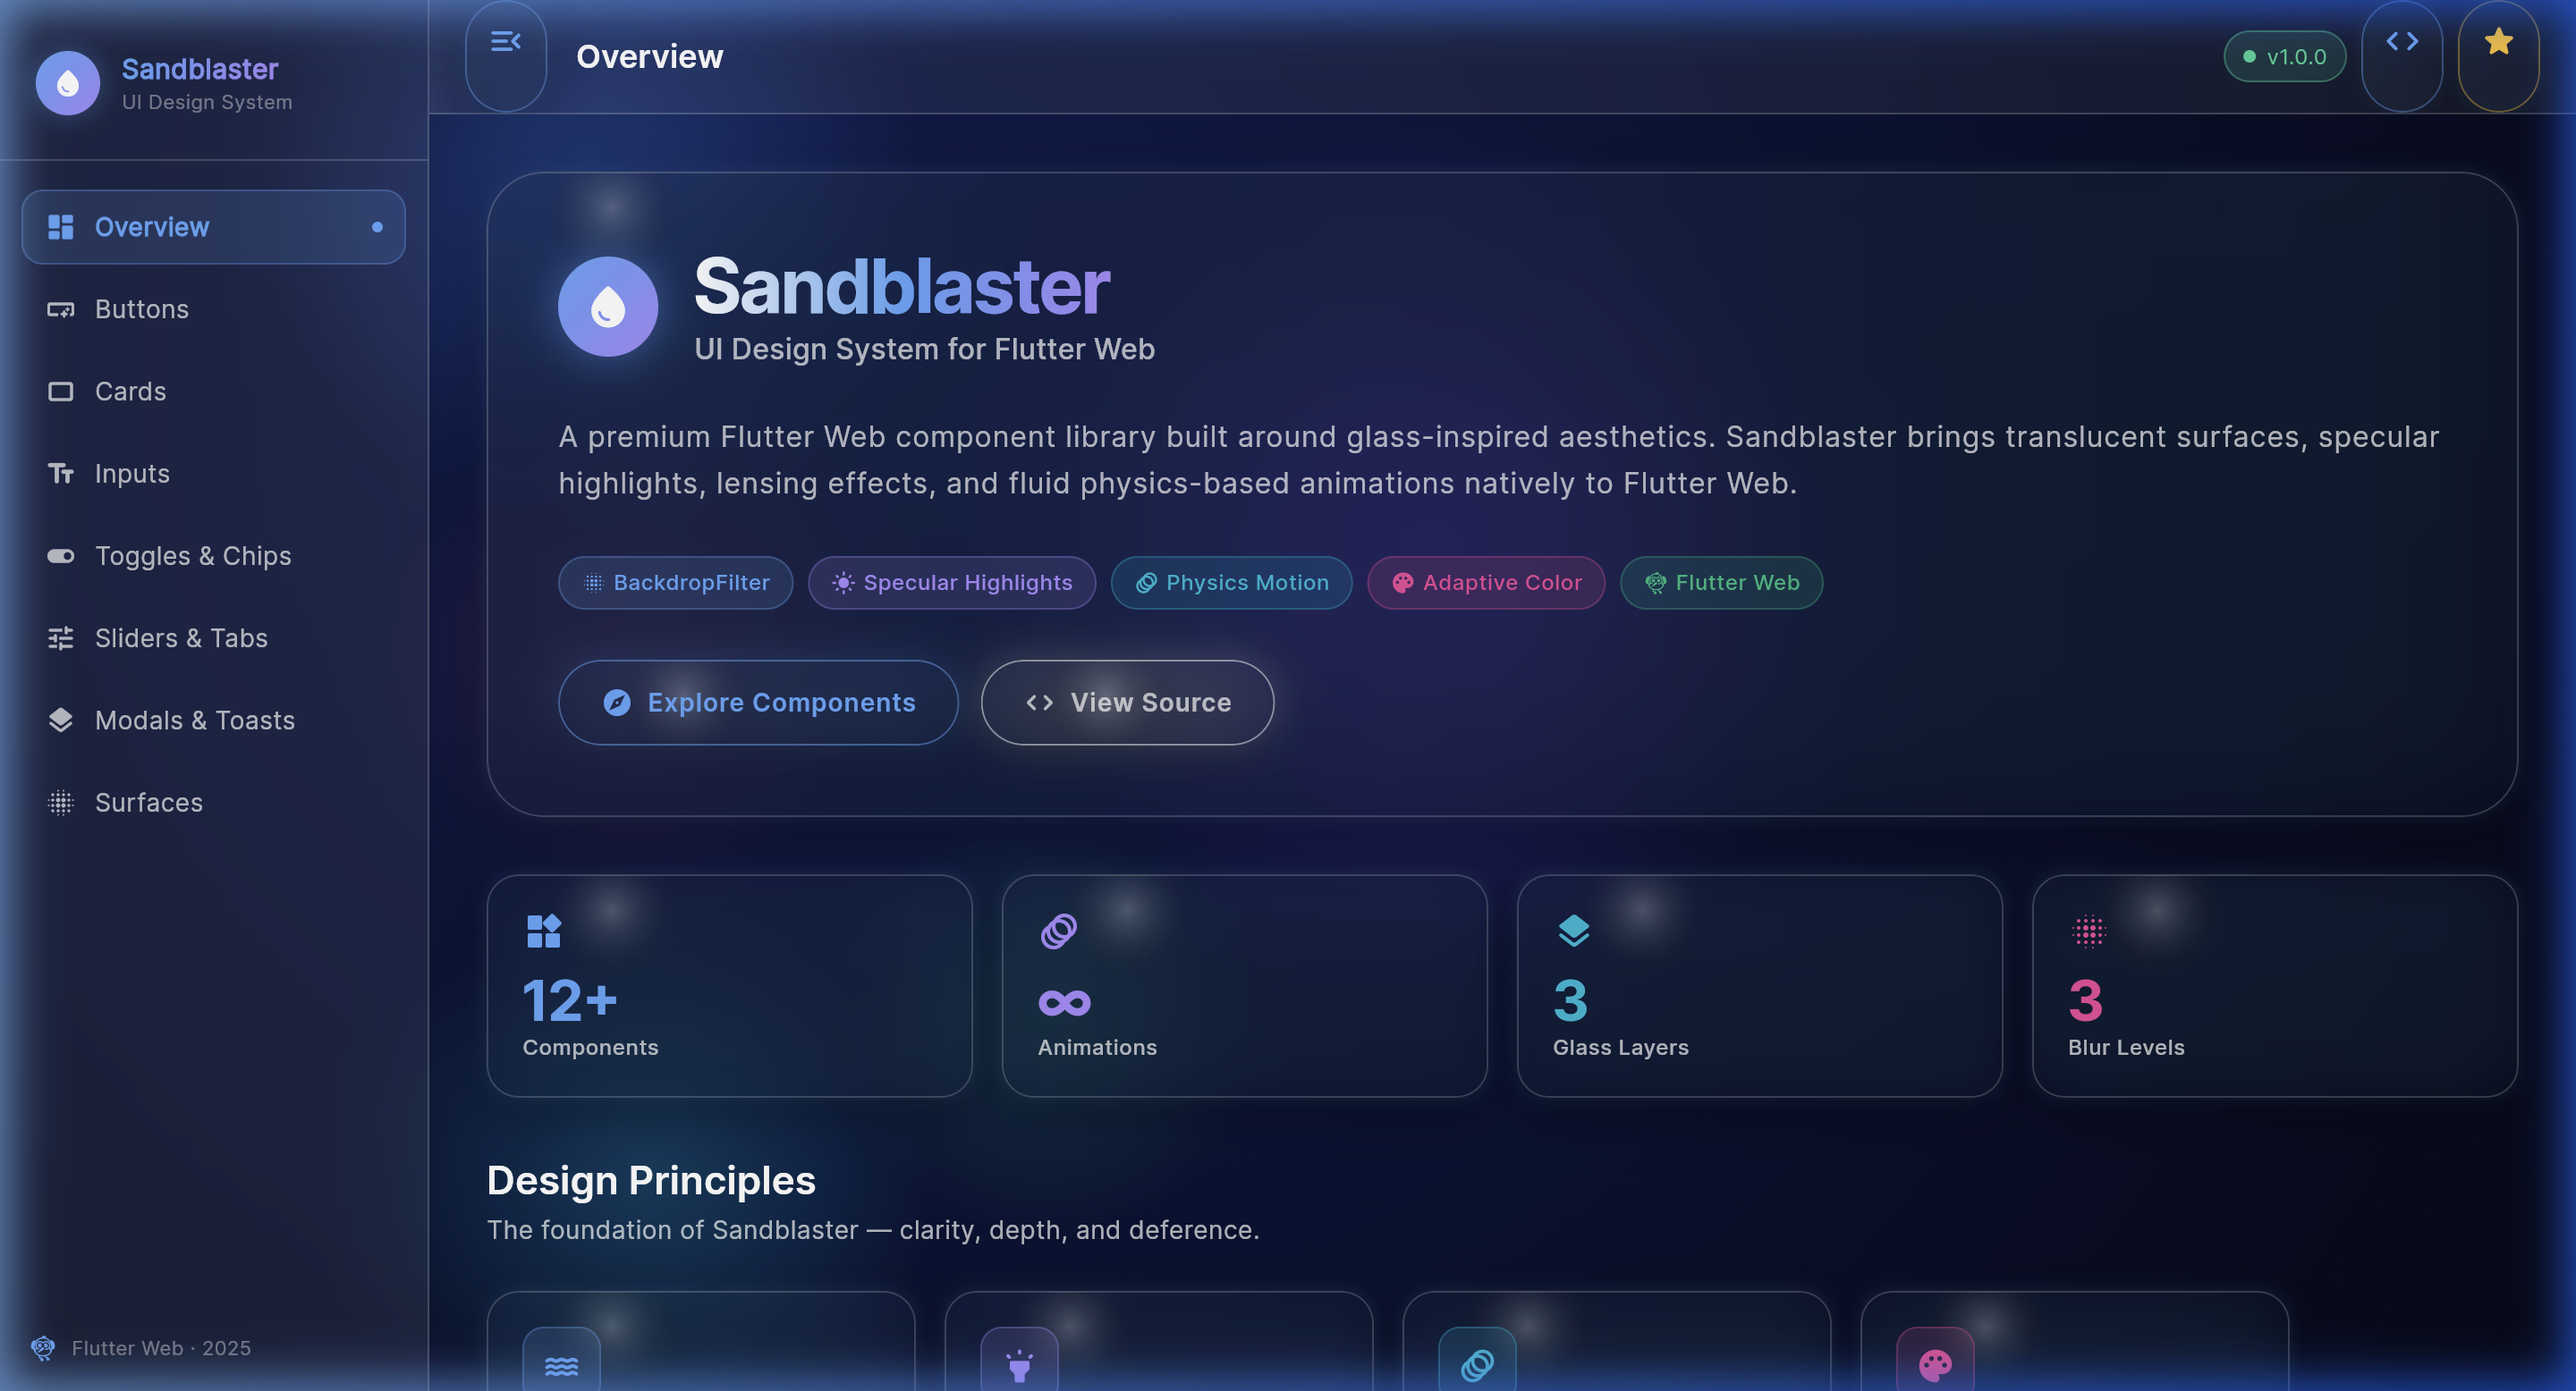
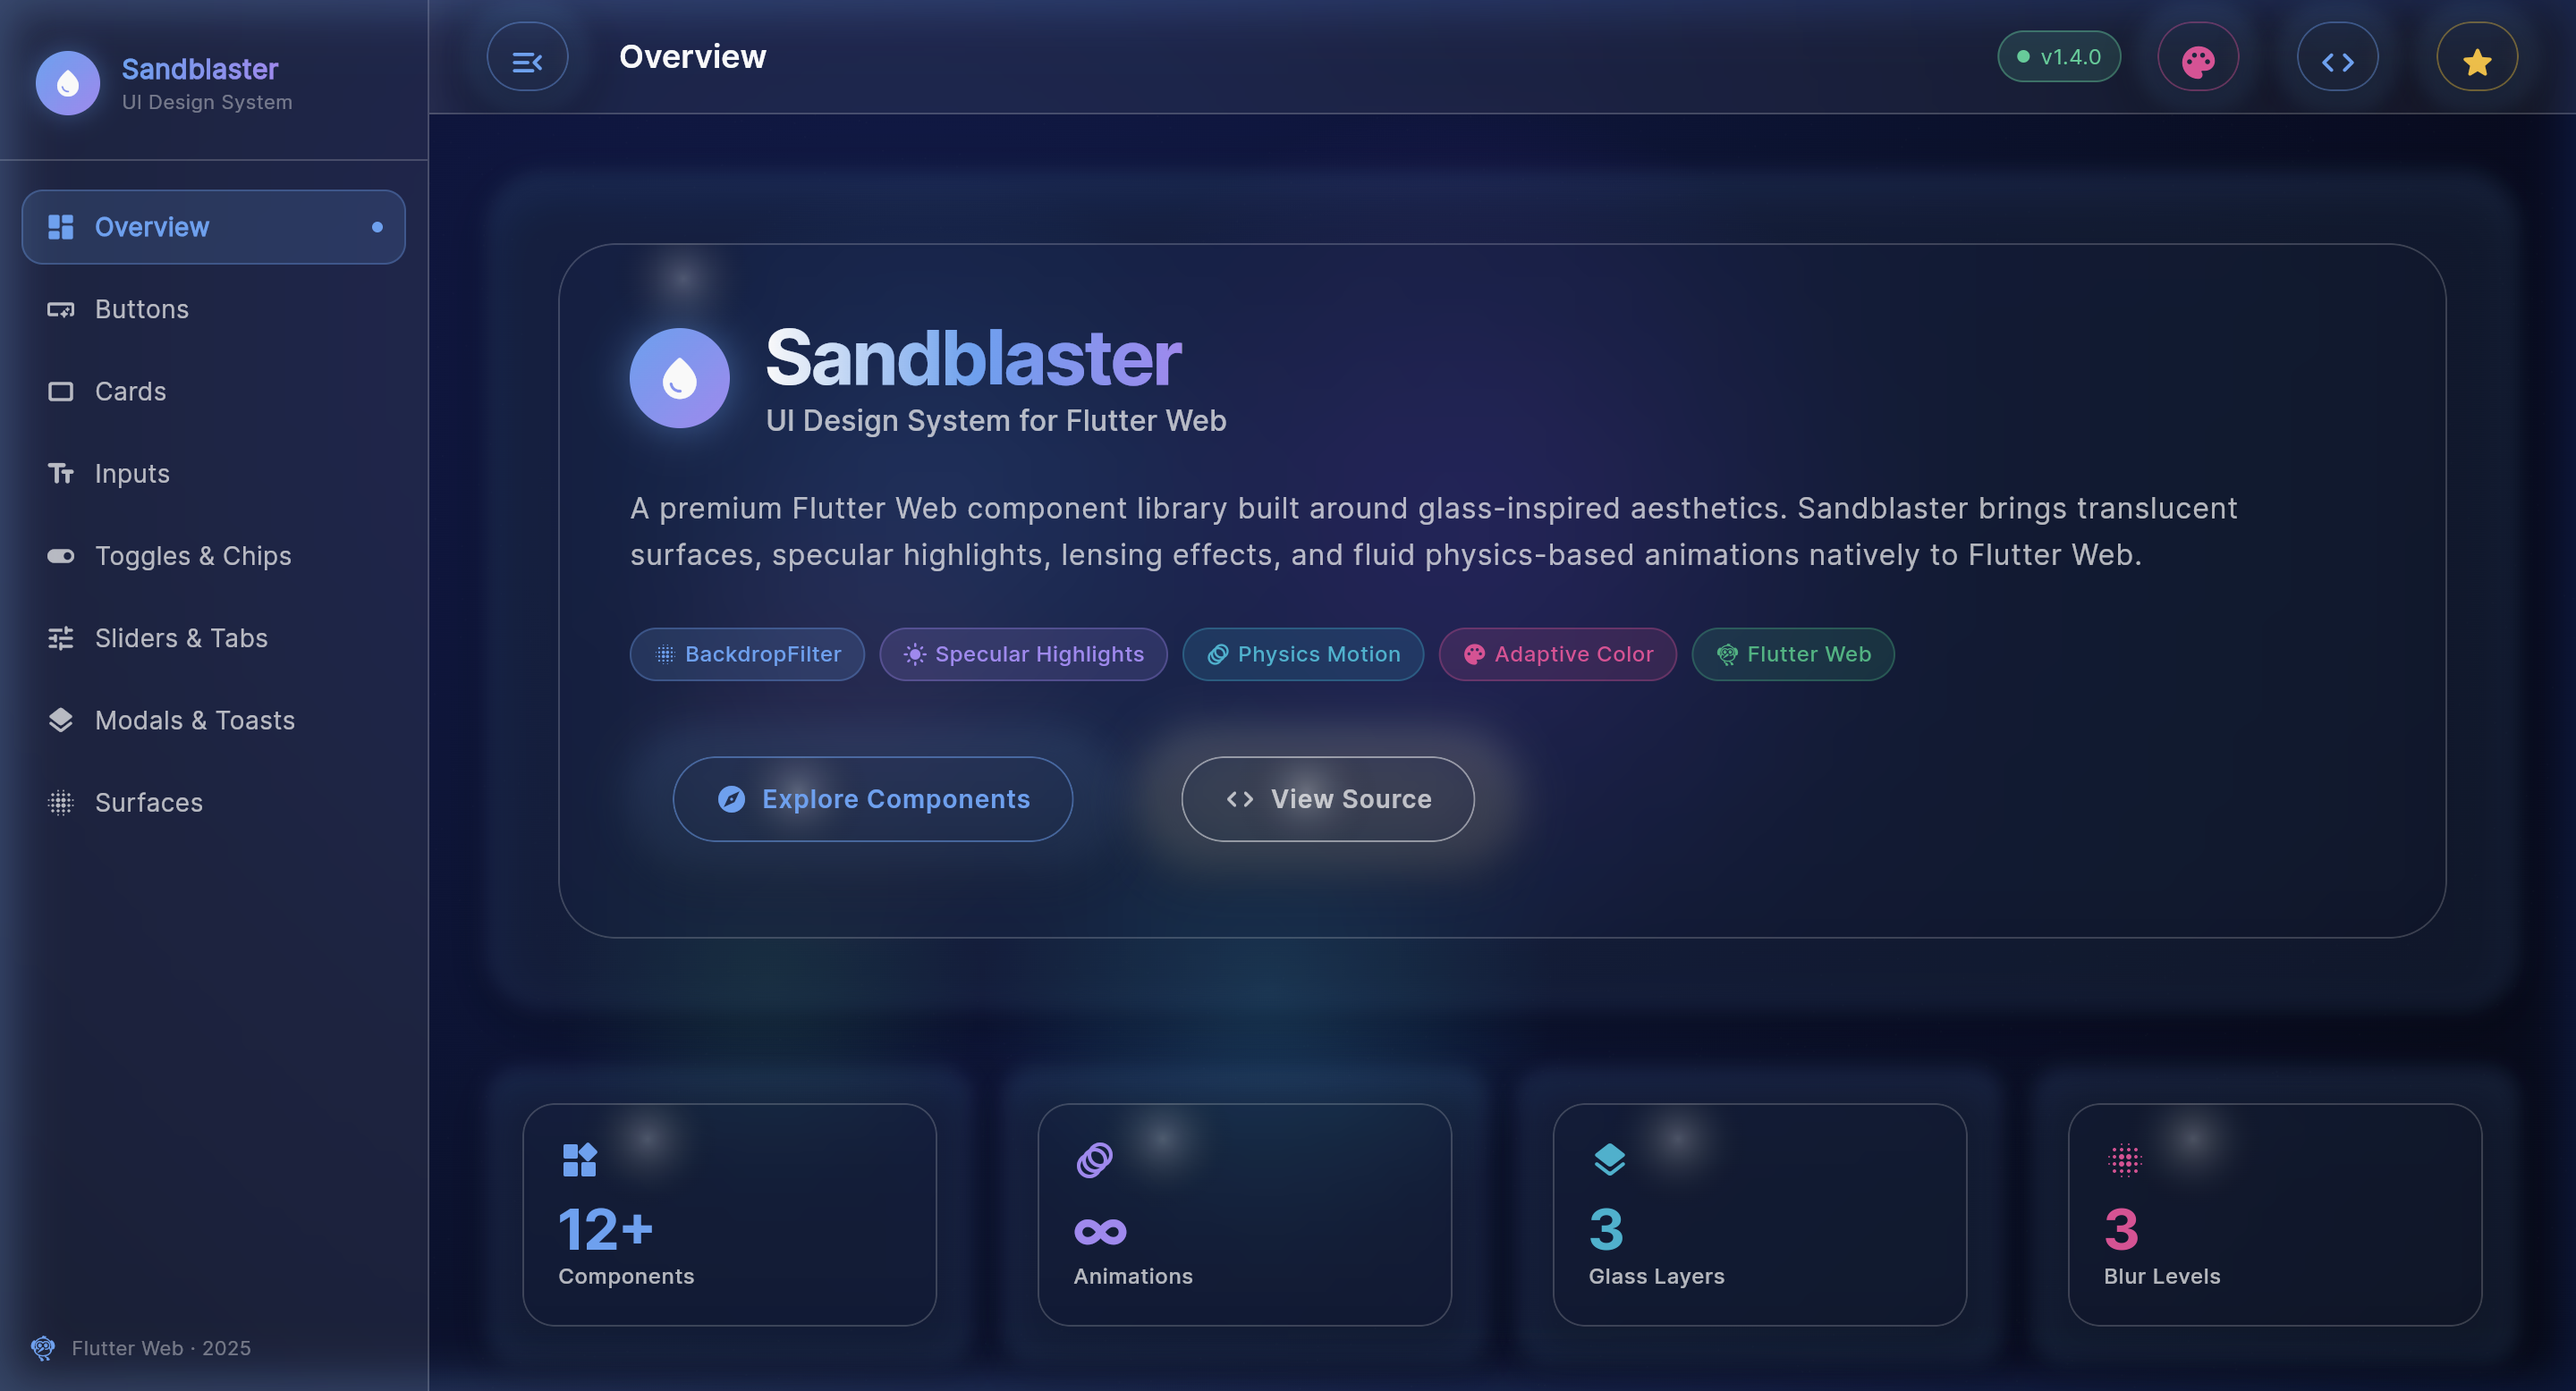
docs: release version 1.4.0 with updated snapshots

diff --git a/lib/screens/gallery_screen.dart b/lib/screens/gallery_screen.dart
@@ -350,7 +350,7 @@ class _Header extends StatelessWidget {
                     ),
                     const SizedBox(width: 6),
                     Text(
-                      'v1.3.0',
+                      'v1.4.0',
                       style: TextStyle(
                         fontSize: 12,
                         color: context.sbTheme.success,

diff --git a/README.md b/README.md
@@ -23,12 +23,13 @@ Copy the following directories from this repo into your project:
 - `lib/components/` (All UI components)
 
 ### 3. Initialize the Theme
-Wrap your `MaterialApp` with the `LiquidGlassTheme`:
+Wrap your `MaterialApp` with the `LiquidGlassTheme` using the new `SandblasterThemeData` extension profiles:
 ```dart
 import 'package:your_app/theme/liquid_glass_theme.dart';
 
 MaterialApp(
-  theme: LiquidGlassTheme.themeData,
+  // Choose between darkTheme, lightTheme, rubyTheme, or latteTheme
+  theme: LiquidGlassTheme.darkTheme, 
   home: YourRootWidget(),
 )
 ```
@@ -88,6 +89,13 @@ LiquidGlassContainer(
 - **AnimatedBackground**: Smoothly moving gradient orbs using `CustomPainter` for high performance, with an optional grain texture overlay.
 - **Physics Motion**: All animations use physics-based curves for a natural, premium feel.
 - **Adaptive Color**: Components tint themselves based on the background, maintaining legibility while looking integrated.
+
+### 🛡 Web & Desktop Architecture (v1.4.0)
+Sandblaster is hardened for flexible viewport environments:
+- **Flex Layout Controls**: `GlassCard` supports `contentMaxWidth` and `contentAlignment` to prevent component stretching on ultrawide displays.
+- **GlassGalleryModal**: A safe, fullscreen modal built on `Dialog.fullscreen` and `SafeArea`, dynamically constraining `InteractiveViewer` bounds to prevent Web render crashes.
+- **Hit Test Boundaries**: All interactive components (`GlassButton`, `GlassChip`, `LiquidGlassContainer`) expose `hitTestBehavior` to prevent "ghost touches" through overlapping glass layers.
+- **Standardized APIs**: Components like `GlassToggle` map directly to standard Material naming conventions (`activeTrackColor`, `thumbIcon`, etc.) for seamless adoption.
 
 ---
 *Built with Flutter Web · 2025*
